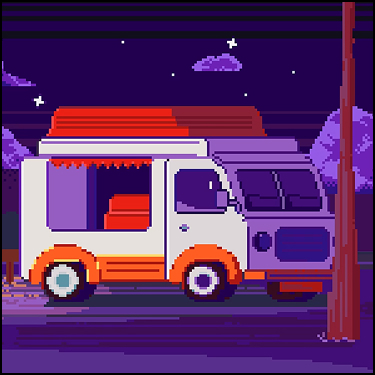
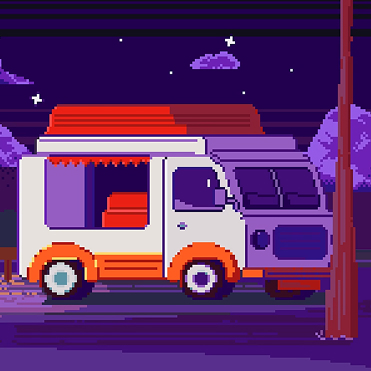
Fix border for image in sprint

diff --git a/styles/components/sprint.css b/styles/components/sprint.css
@@ -31,7 +31,8 @@
 }
 
 .sprint__image {
-  margin-inline: calc(-1 * var(--border-width));
+  border-block: var(--border);
+  inline-size: 100%;
 }
 
 .sprint__container {
